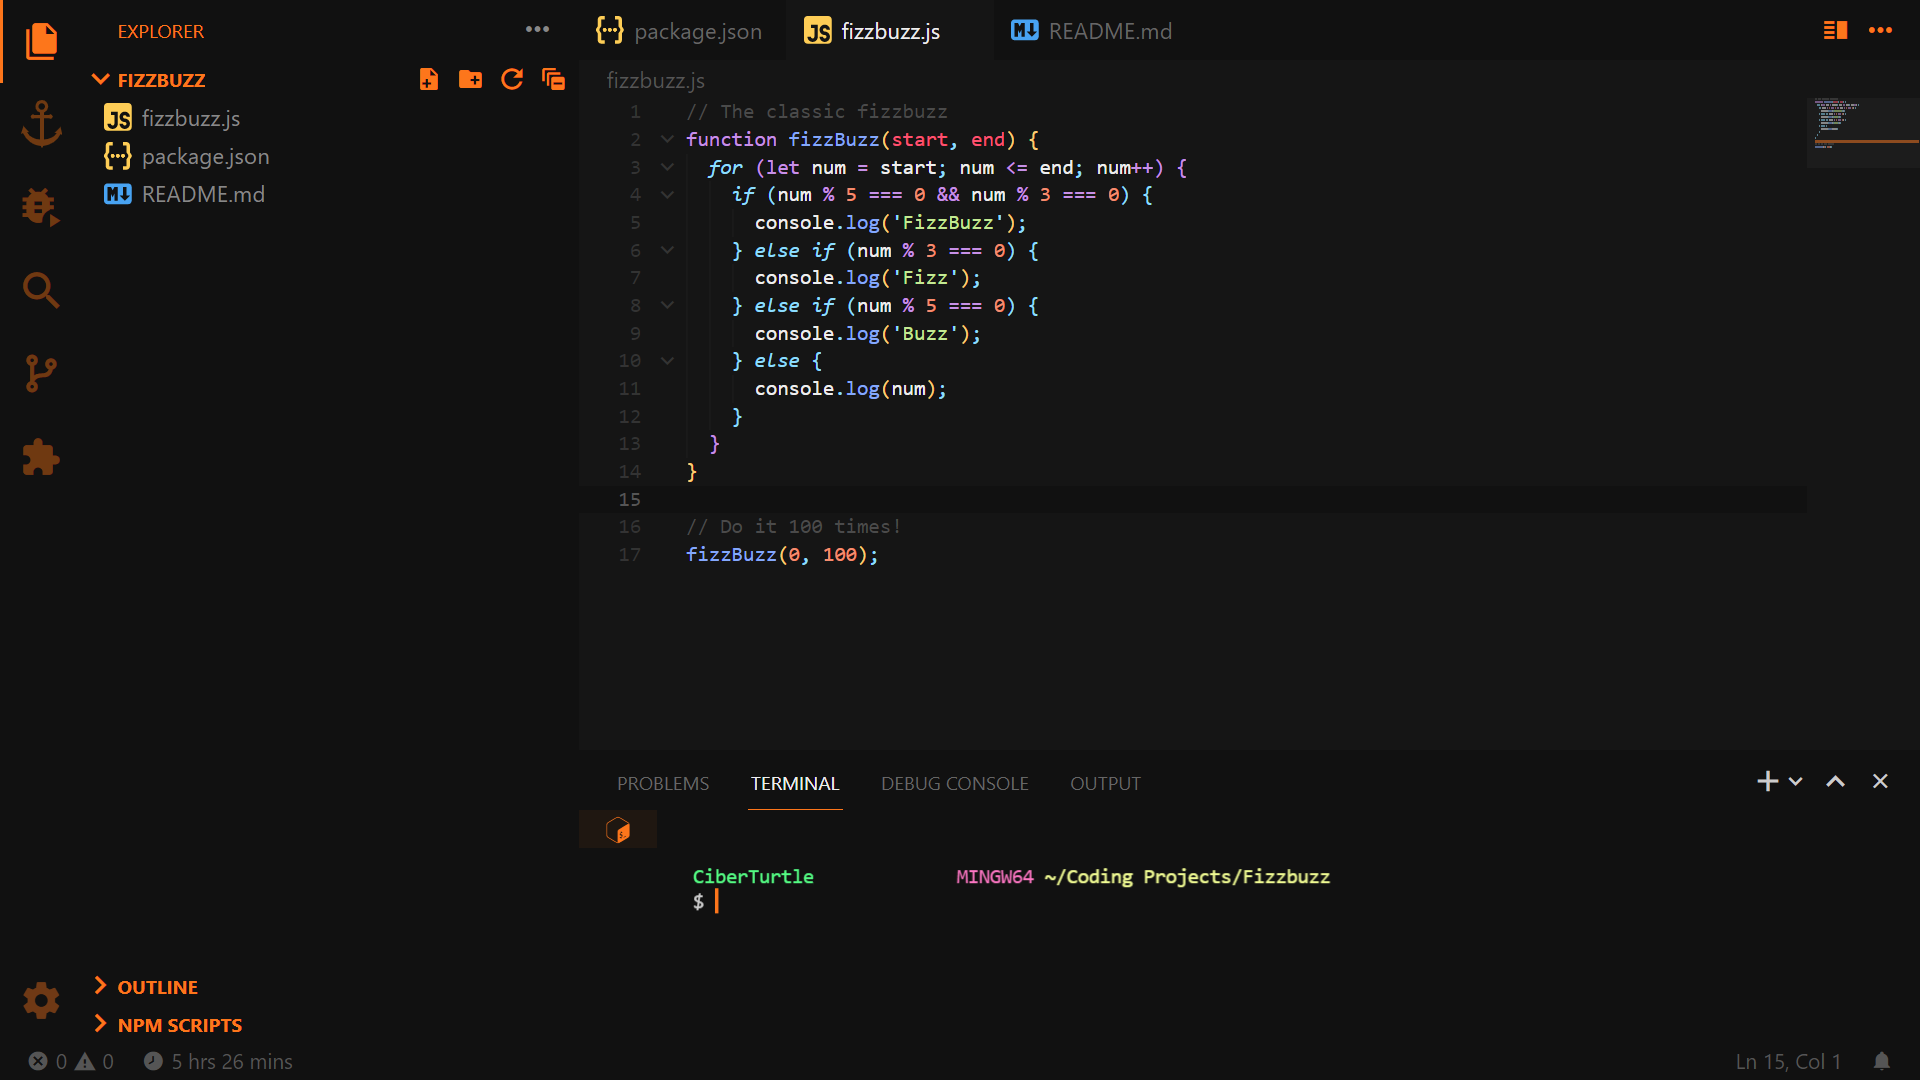
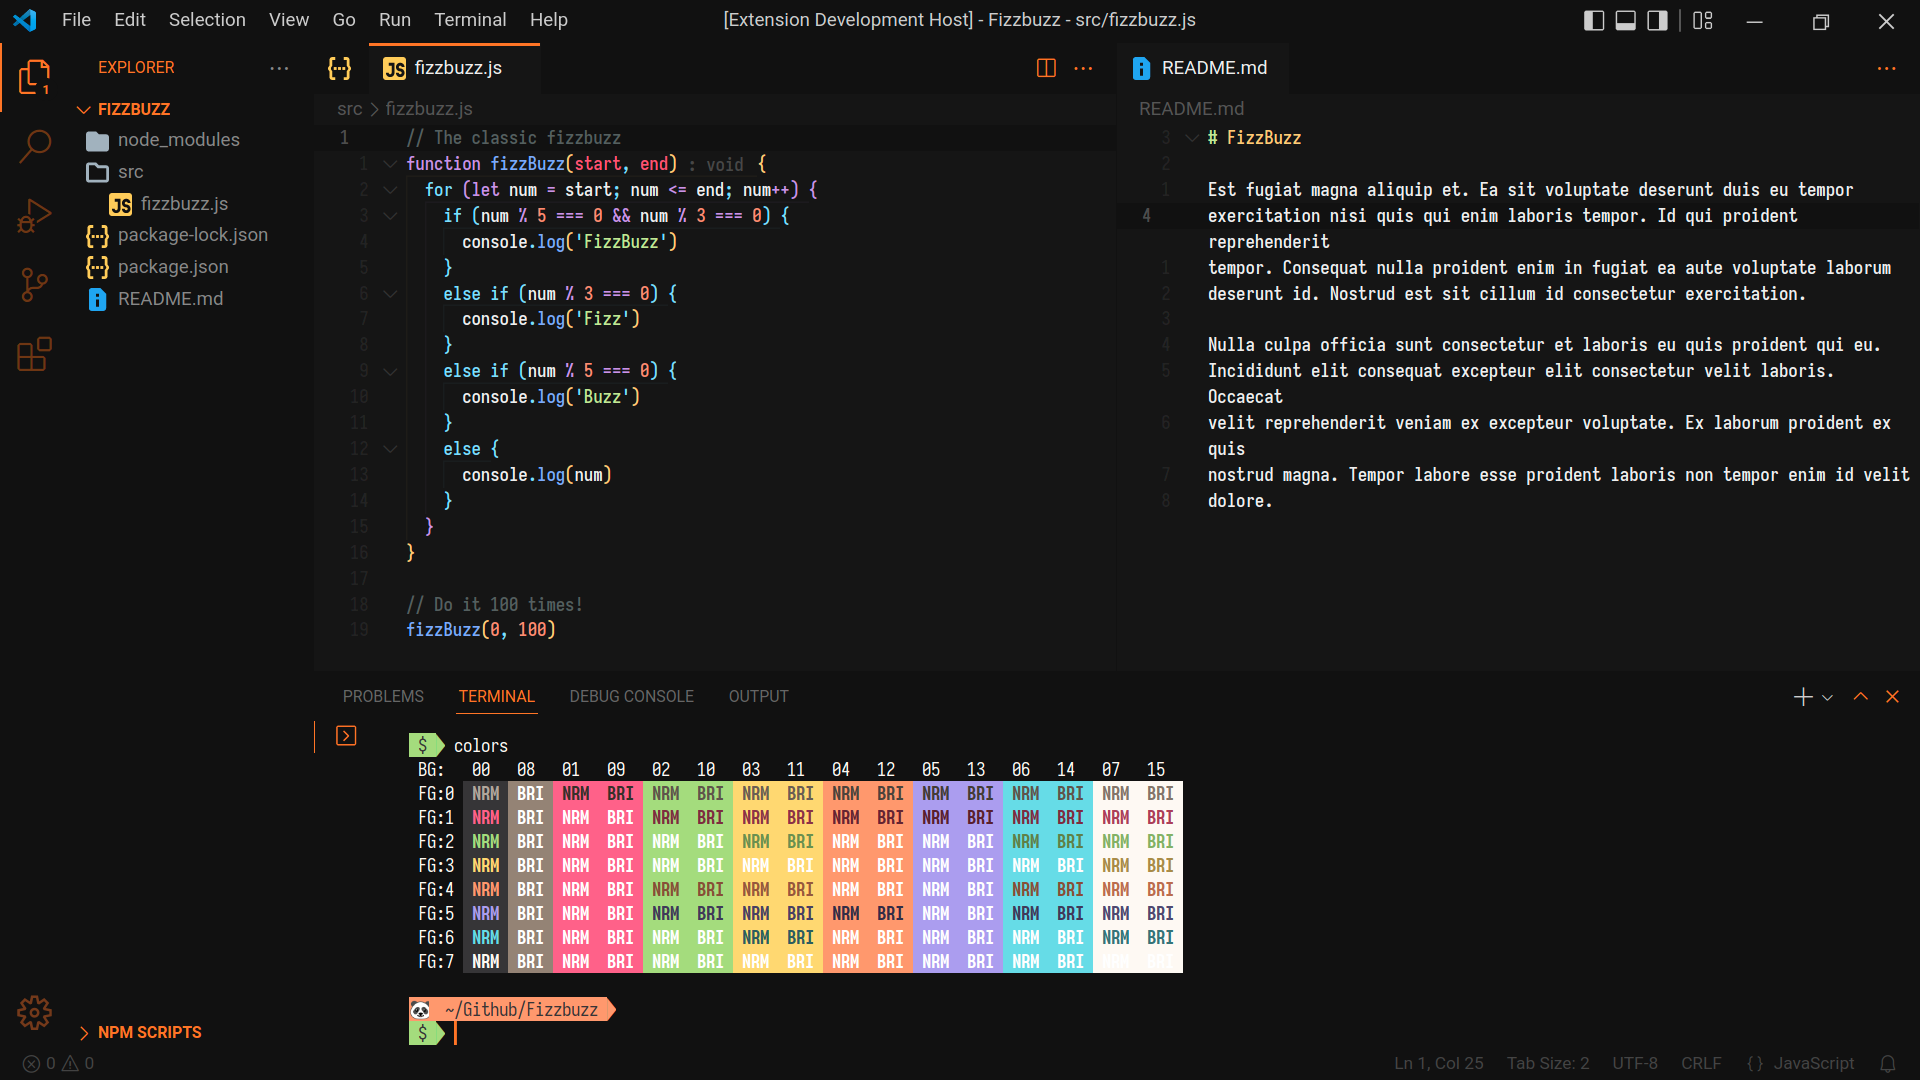
`1.2.0`

diff --git a/README.md b/README.md
@@ -4,14 +4,8 @@
 
 ![Editor Screenshot](images/screenshots/editor.png)
 
-## Settings for keyboard users
-
-```jsonc
-"workbench.colorCustomizations": {
-	"focusBorder": "#FF750440"
-},
-```
-
 ## Credits
 
-- [Community Material Theme](https://marketplace.visualstudio.com/items?itemName=Equinusocio.vsc-community-material-theme) for syntax colors
+- [Community Material Theme](https://marketplace.visualstudio.com/items?itemName=Equinusocio.vsc-community-material-theme)
+  for syntax colors
+- [Monokai] terminal colors

diff --git a/CHANGELOG.md b/CHANGELOG.md
@@ -1,5 +1,10 @@
 # Change Log
 
+## [1.2.0] - 2022-04-25
+
+- Added focus border
+- A bunch of other minor changes
+
 ## [1.1.1] - 2021-12-08
 
 ## Changed
@@ -33,7 +38,8 @@
 
 ## Changed
 
-- Made the input field border dark gray so can be seen in Find & Replace and the Command Palette
+- Made the input field border dark gray so can be seen in Find & Replace and the
+  Command Palette
 
 ## [1.0.1] - 2021-03-27
 
